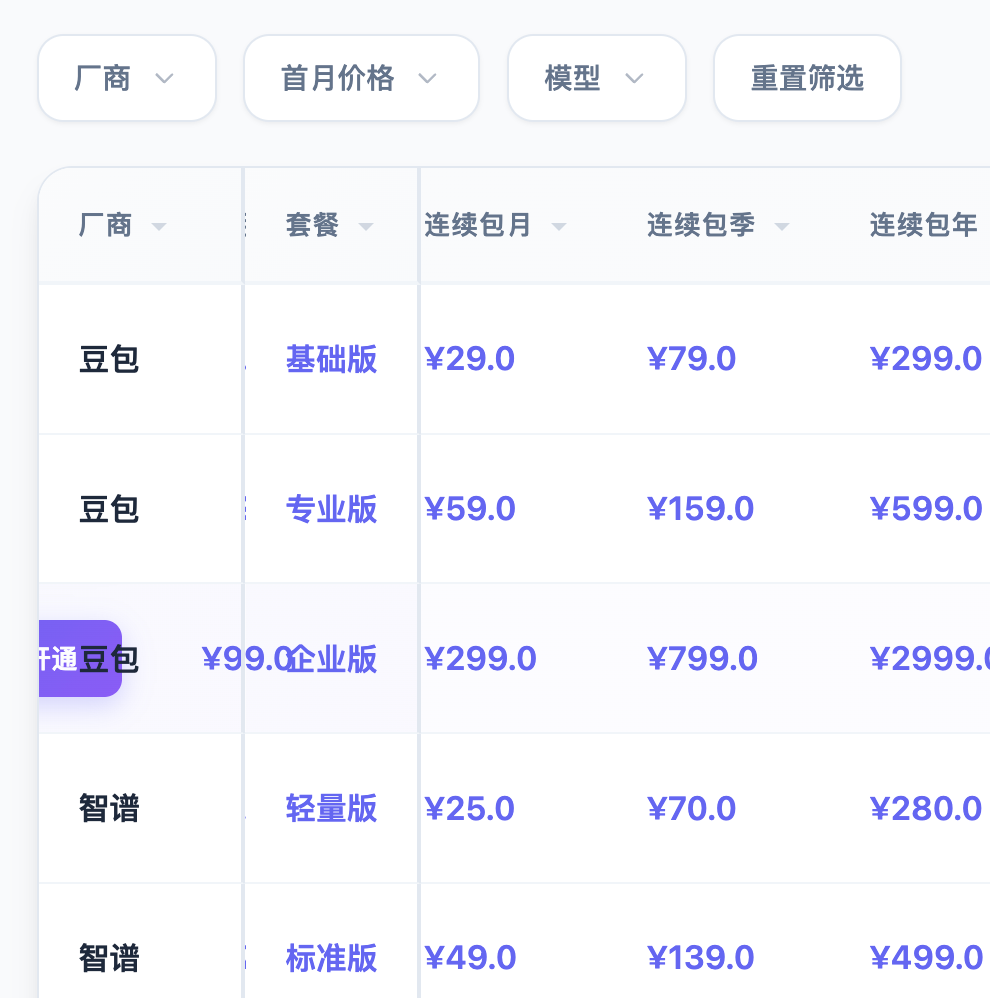
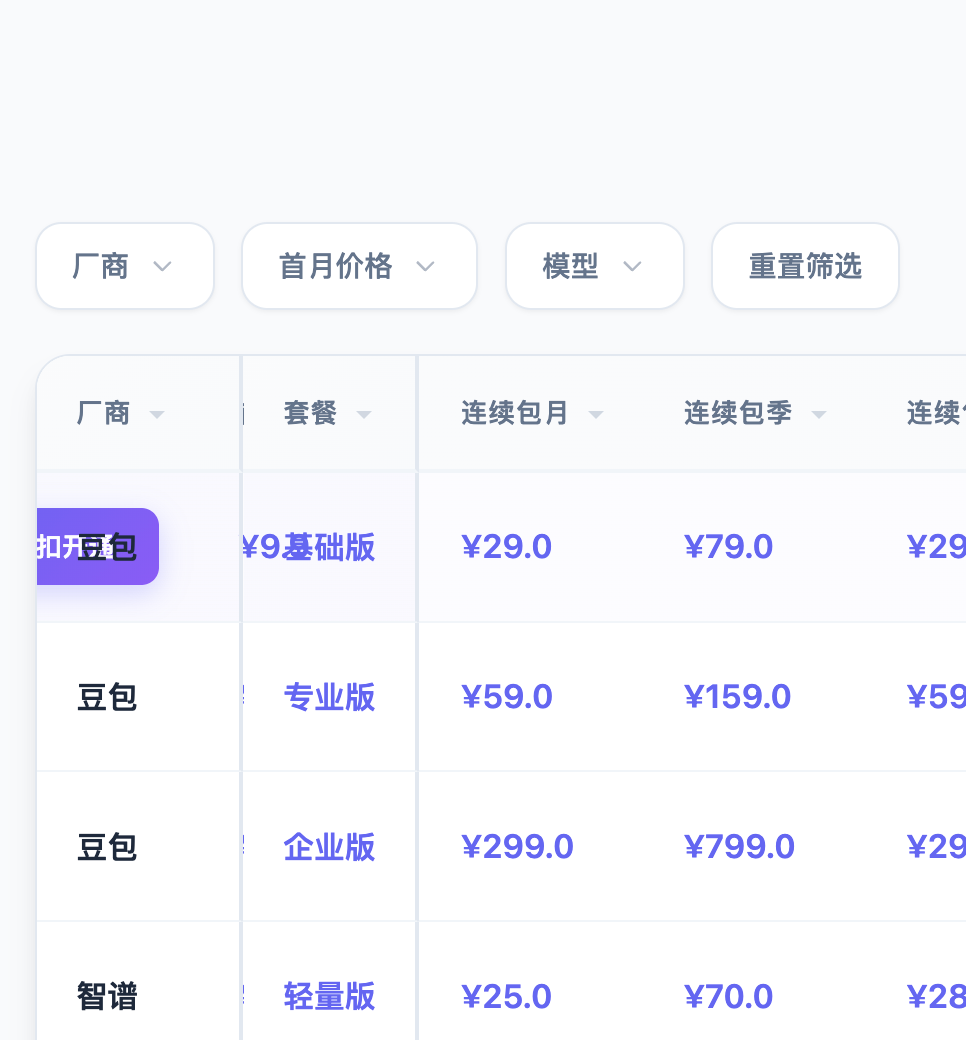
fix: 使用 transform 和不透明背景修复冻结列悬停透出

diff --git a/index.html b/index.html
@@ -502,6 +502,8 @@
             position: sticky;
             z-index: 100;
             background: var(--bg-secondary);
+            transform: translateZ(0);
+            will-change: transform;
         }
 
         td.sticky-first {
@@ -516,7 +518,8 @@
 
         tbody tr:hover td.sticky-first,
         tbody tr:hover td.sticky-second {
-            background: linear-gradient(135deg, rgba(99, 102, 241, 0.02), rgba(139, 92, 246, 0.02));
+            background: var(--bg-secondary);
+            box-shadow: inset 0 0 0 100px rgba(99, 102, 241, 0.02);
         }
 
         /* 厂商名称 */
